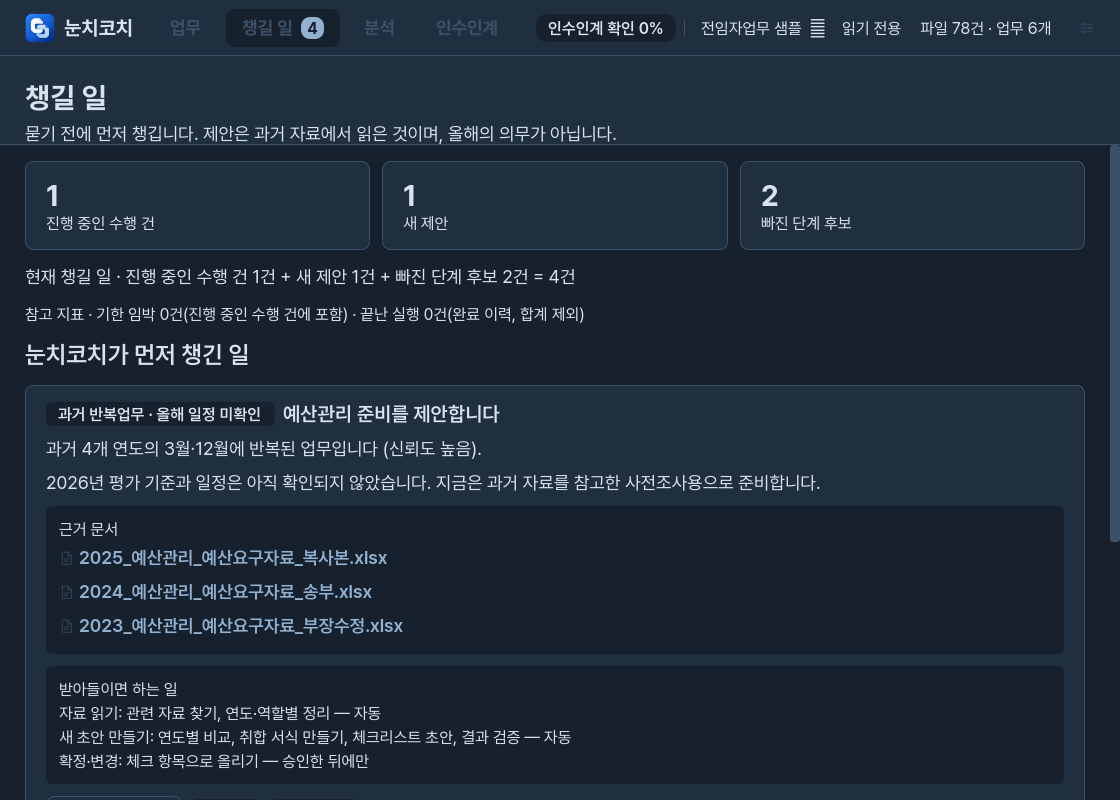
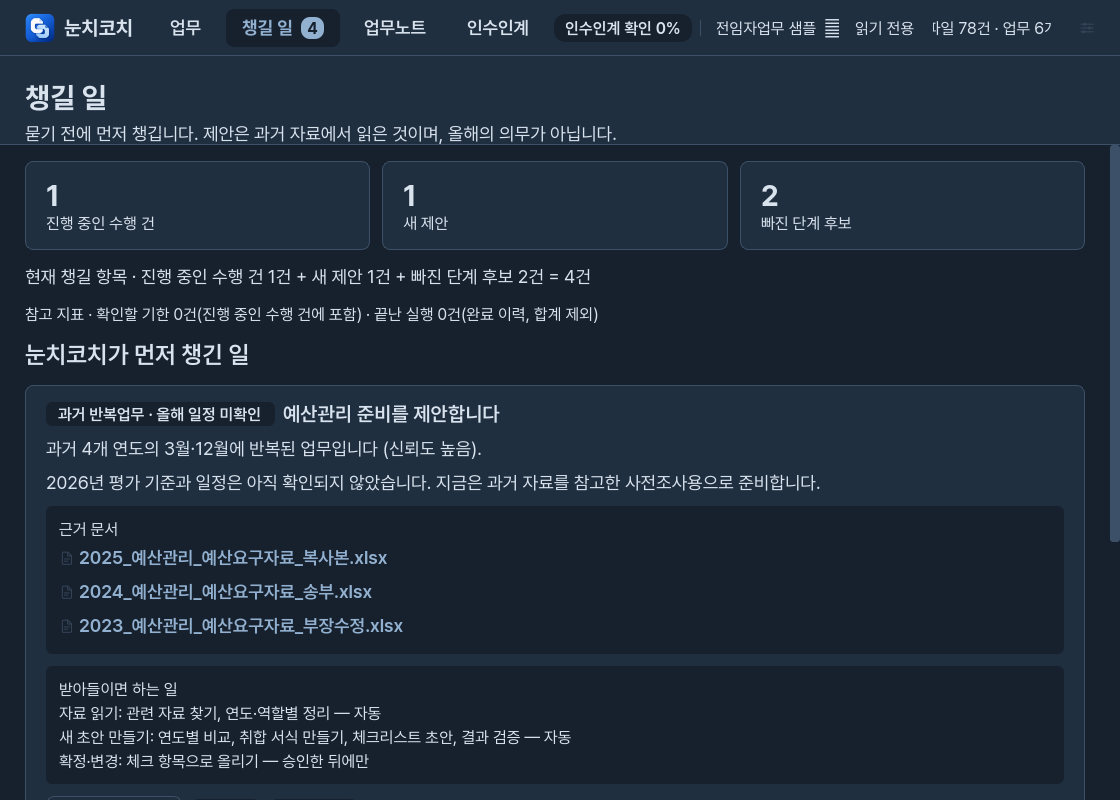
s

diff --git a/app/ui/theme.py b/app/ui/theme.py
@@ -508,13 +508,14 @@ def stylesheet(text_size: str = "medium") -> str:
     }}
     QPushButton#NavTab:disabled {{ color: {NAVBAR_DISABLED}; }}
     QLabel#NavTitle {{ background: transparent; color: {NAVBAR_MUTED}; font-weight: 600; }}
-    QPushButton#NavTab:checked QLabel#NavTitle {{ color: {PRIMARY}; font-weight: 700; }}
-    QPushButton#NavTab:disabled QLabel#NavTitle {{ color: {NAVBAR_DISABLED}; }}
+    QLabel#NavTitle[nav_state="selected"] {{ color: {PRIMARY}; font-weight: 700; }}
+    QLabel#NavTitle[nav_state="disabled"] {{ color: {NAVBAR_DISABLED}; }}
     QLabel#NavCountBadge {{
         background: {PRIMARY}; color: {TEXT_ON_PRIMARY};
         border-radius: 9px; padding: 1px 6px;
         font-size: {small}px; font-weight: 700;
     }}
+    QLabel#NavCountBadge[nav_state="disabled"] {{ background: {SURFACE_ALT}; color: {TEXT_DISABLED}; }}
     /* 띠 오른쪽의 상태 문구들. 누를 수 있지만 평소엔 물러서 있다. */
     QPushButton#TopLink {{
         background: transparent;

diff --git a/app/ui/views/today.py b/app/ui/views/today.py
@@ -75,11 +75,11 @@ class TodayView(QWidget):
         self.count_changed.emit(data.attention_count)
         column = self.page.reset()
         column.addLayout(self._tiles(data))
-        summary = muted_label('현재 챙길 일 · ' + data.attention_summary)
+        summary = muted_label('현재 챙길 항목 · ' + data.attention_summary)
         summary.setObjectName('AttentionSummary')
         column.addWidget(summary)
         column.addWidget(muted_label(
-            f"참고 지표 · 기한 임박 {data.tiles['due']}건(진행 중인 수행 건에 포함) · "
+            f"참고 지표 · 확인할 기한 {data.tiles['due']}건(진행 중인 수행 건에 포함) · "
             f"끝난 실행 {data.tiles['completed']}건(완료 이력, 합계 제외)", small=True))
         if data.empty:
             scanned = f"마지막으로 살핀 날: {data.scanned_on}. " if data.scanned_on else ""

diff --git a/tests/test_work_workspace.py b/tests/test_work_workspace.py
@@ -442,7 +442,8 @@ def test_evidence_tab_uses_full_width_and_keeps_tasks_separate(project, qapp):
     assert view.evidence_page.width() == view.stack.width()
     assert '첫 업무의 고유한 원문' in words(view.evidence_page)
     assert not hasattr(view, 'drawer')
-    assert not any(button.text().startswith('근거 ') for button in view.head.parentWidget().findChildren(QPushButton))
+    assert not any(button.objectName() == 'Link' and button.text().startswith('근거 ')
+                   for button in view.head.parentWidget().findChildren(QPushButton))
     view.open_task(2, 'evidence')
     settle(qapp)
     assert '첫 업무의 고유한 원문' not in words(view.evidence_page)

diff --git a/app/ui/widgets/evidence_drawer.py b/app/ui/widgets/evidence_drawer.py
@@ -47,7 +47,7 @@ class Evidence:
 
 
 class EvidenceDrawer(QFrame):
-    """오른쪽에서 열리는 근거 패널. 기본은 숨어 있다."""
+    """공용 근거 뷰. 기본은 서랍, embedded=True이면 폭 제한 없는 탭 본문이다."""
 
     open_original = Signal(str)   # 원본 경로
     closed = Signal()

diff --git a/docs/screenshots/README.md b/docs/screenshots/README.md
@@ -108,3 +108,7 @@
 41번은 기존 DirectWrite 렌더링, 회색조 FreeType 렌더링, 기존 PNG 3배 확대, 72px 실제 재렌더링을 비교한다. 42번 SVG는 글자를 실제 벡터 path로 저장한 예시이며 비트맵이 없다. 43~45번은 이전과 같은 합성 DB 사본을 Windows FreeType 엔진·숨겨진 Qt 위젯으로 렌더링한 홈/업무 안내/어두운 테마·큰 글자 화면이다. 38~40번 이전 엔진의 기록은 유지한다.
 
 별도 Windows 프로세스의 샘플에서 RGB 색 번짐 픽셀이 1,578개에서 0개로 감소했다. Windows 플랫폼의 배율 100/125/150%와 글자 크기 3단계도 조합해 확인했다. 실제 모니터의 확대 도구나 원격 화면 보간을 검증한 것은 아니다. 자세한 조건과 한계는 [폰트 벡터 렌더링 검토](../폰트_벡터렌더링_검토_2026-10-20.md)에 적었다.
+
+## 2026-10-20 근거 탭
+
+[53-work-evidence-tab.png](53-work-evidence-tab.png)는 합성 프로젝트 DB 사본의 행정사무감사 업무를 1280×900·밝은 테마·보통 글자로 렌더링했다. ‘매뉴얼’ 오른쪽의 ‘근거’ 탭이 본문 전체 폭을 사용하며, 별도 오른쪽 패널과 상단 근거 버튼은 없다. 업무명·반복 주기·매뉴얼의 연결 근거를 모으고, 본문 근거 링크는 이 탭의 해당 항목으로 이동한다. 파일명·원문 위치·인용·변경된 원문 경고와 원본 열기 기능은 유지한다.
